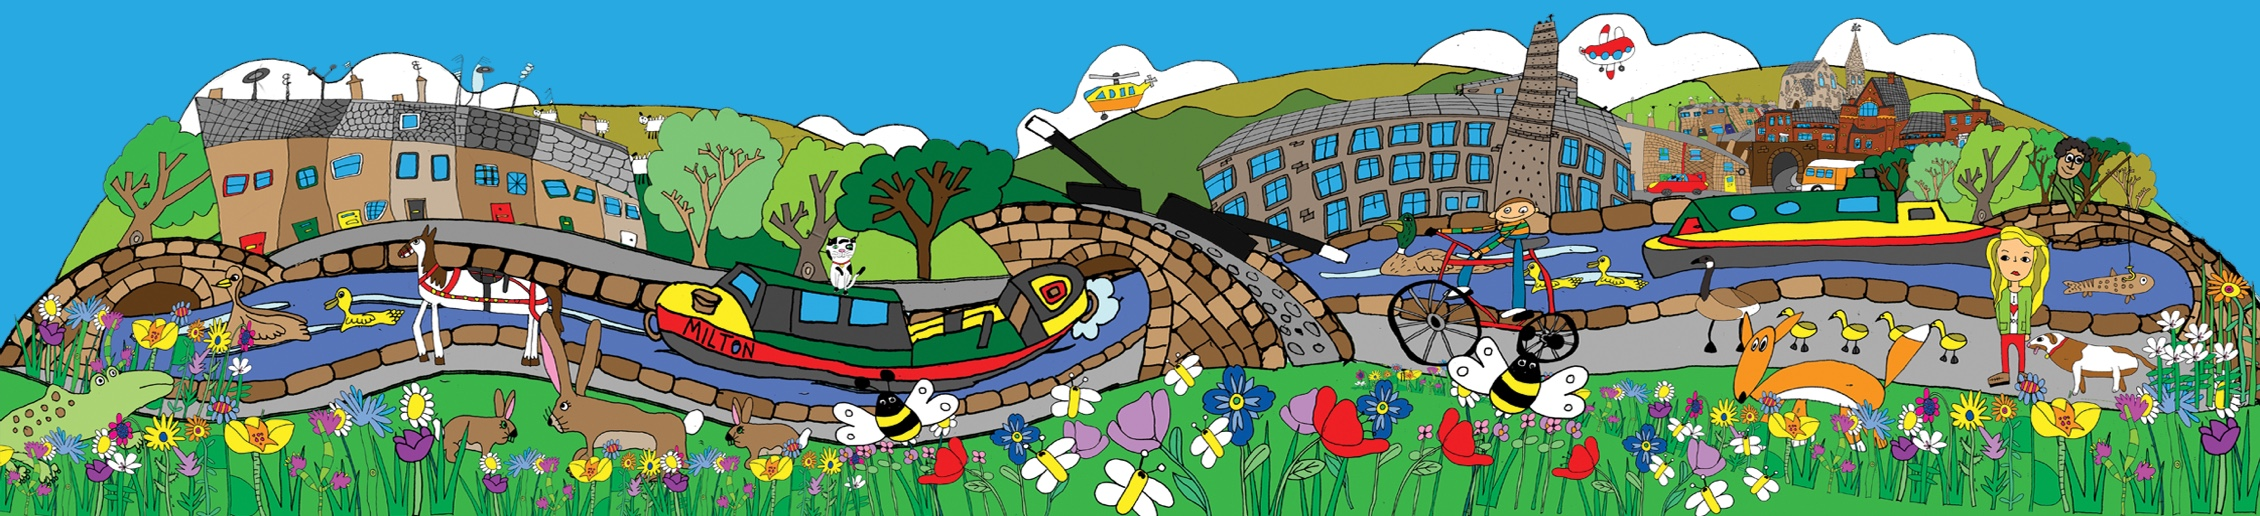
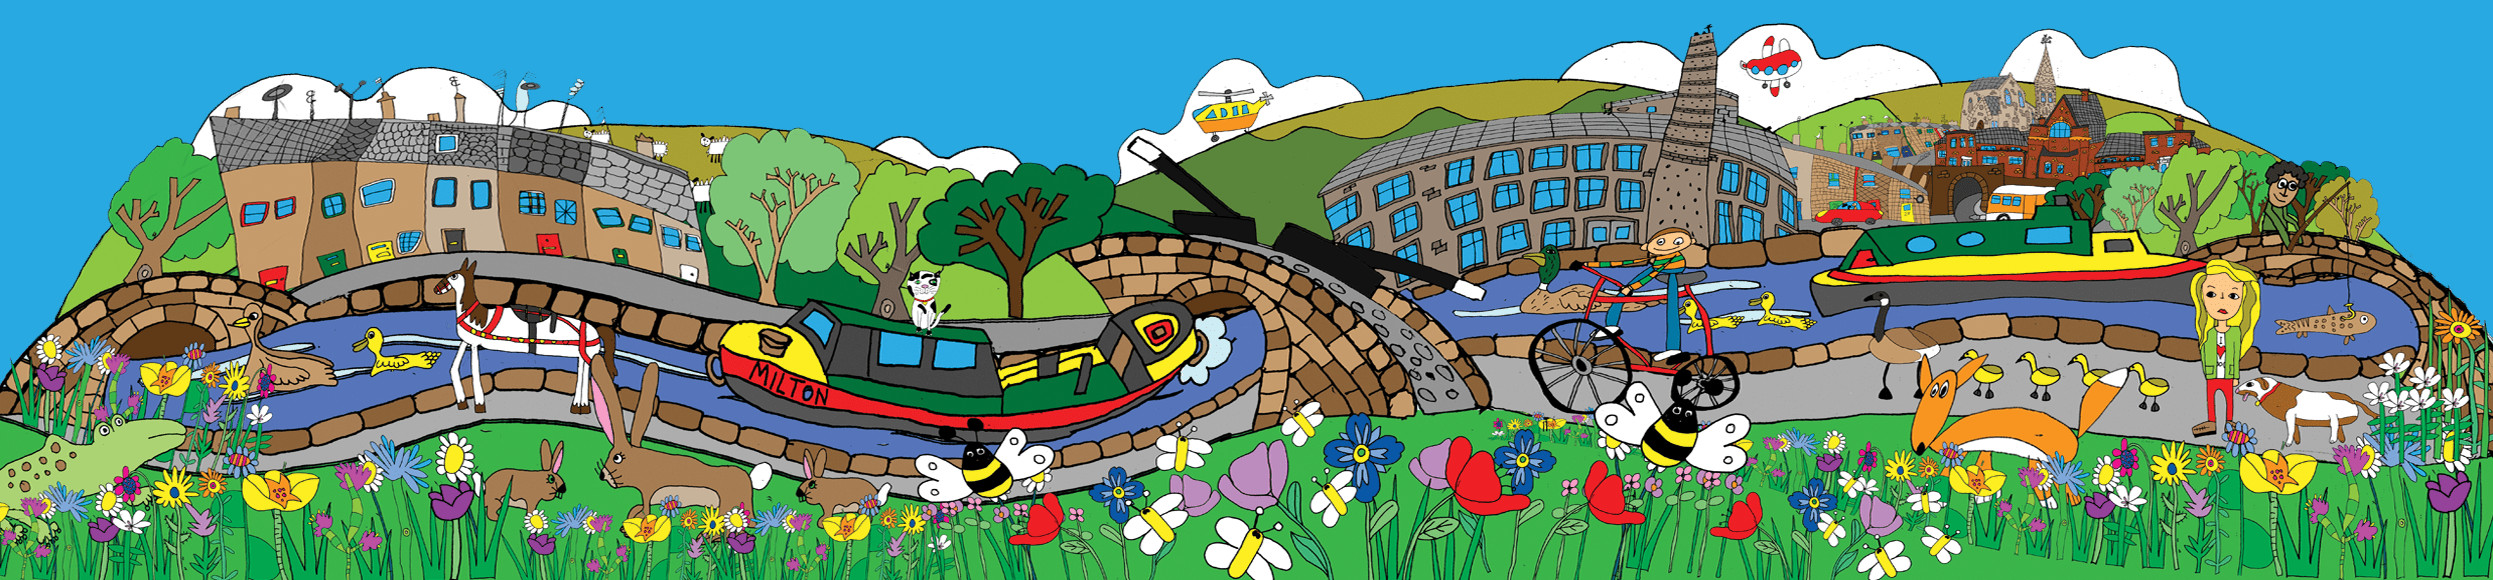
Improve hero header

diff --git a/app/assets/stylesheets/sites/mossley.sass b/app/assets/stylesheets/sites/mossley.sass
@@ -42,13 +42,33 @@ a
 
 .header
   background-color: $mossley-primary
-  &__menu li a
-    color: $mossley-text-alt
-    +for-tablet-portrait-up
-      &:hover, &.active
+  &__menu
+    li
+      background-color: $mossley-background
+      +for-phone-only
+        border-bottom-color: $mossley-text-alt
+        &.nav__item--last
+          border-bottom-width: 0
+        &:hover
+          background-color: $mossley-primary-dark
+      +for-tablet-landscape-up
+        background-color: transparent
+    a
+      color: $mossley-primary-dark
+      &:hover
         color: $mossley-text-alt
-        &:after
-          border-color: $mossley-secondary
+      +for-tablet-portrait-up
+        &:hover, &.active
+          color: $mossley-primary-dark
+          &:after
+            border-color: $base-primary
+      +for-tablet-landscape-up
+        color: $mossley-text-alt
+        &:hover, &.active
+          color: $mossley-text-alt
+          &:after
+            border-color: $mossley-secondary
+
 
 .region__title--mossley
   background-color: $mossley-secondary
@@ -63,7 +83,13 @@ a
 
 .hero_image--mossley
   background-image: image-url('regions/mossley/hero-desktop.jpg')
-  height: 258px
+  background-size: auto 100%
+  height: 220px
+  +for-tablet-landscape-up
+  +for-tablet-portrait-up
+    height: 290px
+  background-position: 50%
+  background-repeat: no-repeat
 
 .region__management
   background-color: $mossley-primary

diff --git a/db/schema.rb b/db/schema.rb
@@ -186,7 +186,7 @@ ActiveRecord::Schema.define(version: 20180926032437) do
     t.index ["turf_id", "place_id"], name: "index_places_turfs_on_turf_id_and_place_id"
   end
 
-  create_table "seed_migration_data_migrations", id: :serial, force: :cascade do |t|
+  create_table "seed_migration_data_migrations", id: :integer, default: nil, force: :cascade do |t|
     t.string "version"
     t.integer "runtime"
     t.datetime "migrated_on"
